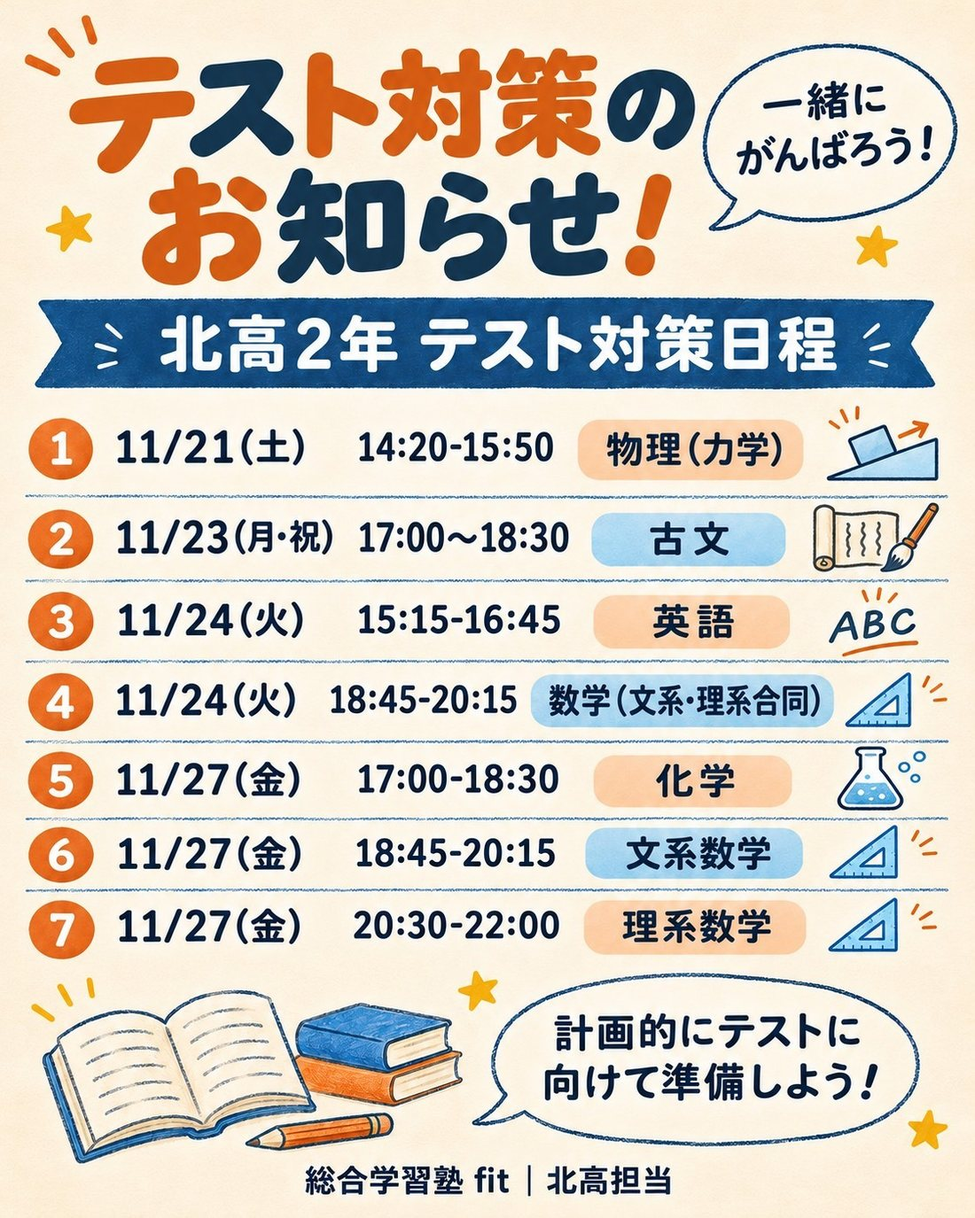
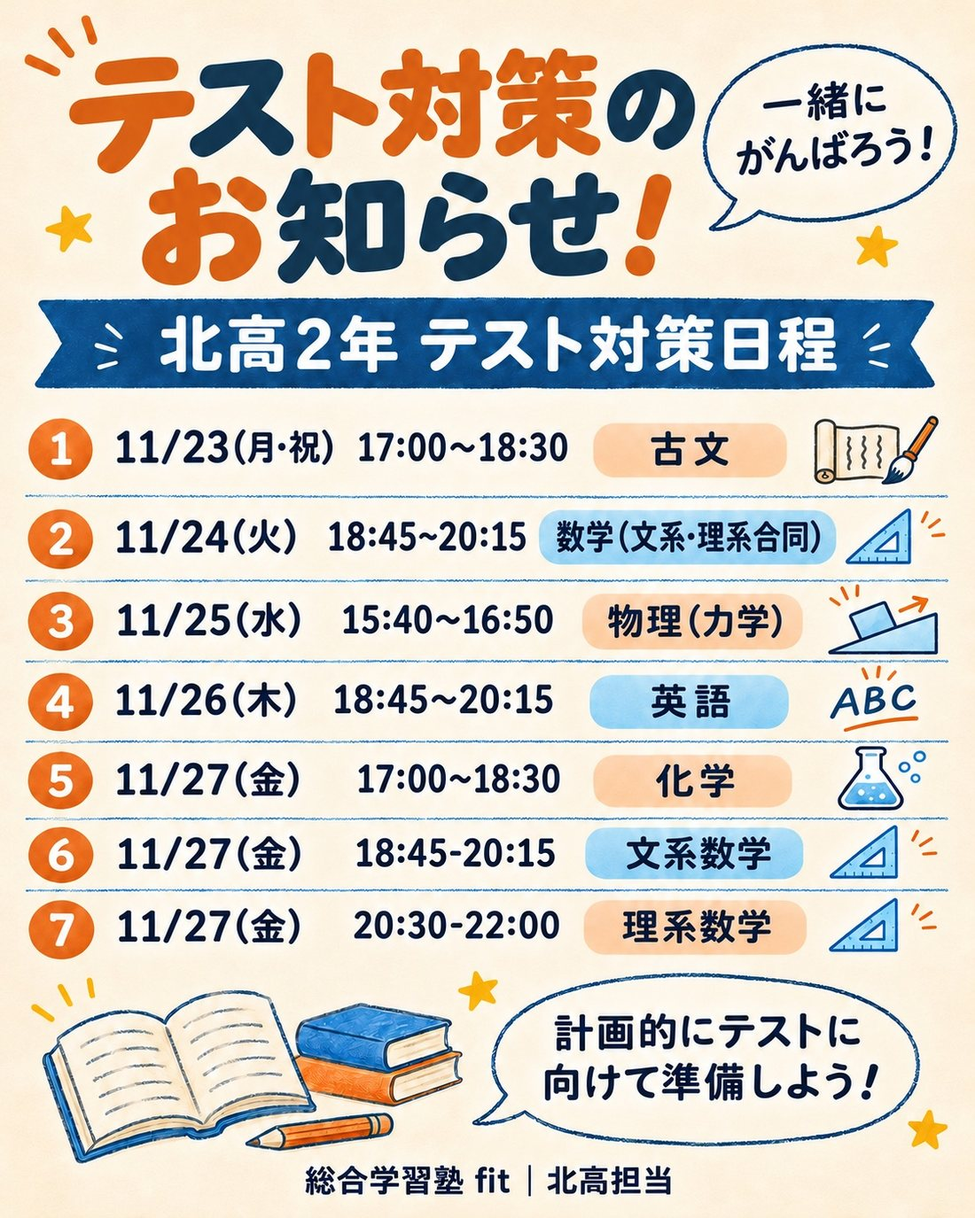
北2年のテスト対策日程を変更（物理 11/25 15:40〜16:50・英語 11/26 18:45〜20:15）：testtaisaku.html と teikitest.html の画像・文字の日程
Claude-Session: https://claude.ai/code/session_018owQgFQp8tbjP1aYZa9Tmk

diff --git a/testtaisaku.html b/testtaisaku.html
@@ -222,7 +222,7 @@ footer p{margin:0 0 6px}
 <p class="sub">学校を<wbr>選んで、<wbr>学年の<wbr>タブを<wbr>押してください。</p>
 <p class="pick-hint" id="pick-hint">▼ あなたの学校は？</p>
 <div class="pick" role="group" aria-label="学校"><button class="sch" type="button" data-s="higashi" aria-pressed="false"><b>東</b><small>松山東高校</small></button><button class="sch" type="button" data-s="minami" aria-pressed="false"><b>南</b><small>松山南高校</small></button><button class="sch" type="button" data-s="kita" aria-pressed="false"><b>北</b><small>松山北高校</small></button><button class="sch" type="button" data-s="chuo" aria-pressed="false"><b>中央</b><small>松山中央高校</small></button><button class="sch" type="button" data-s="nishi" aria-pressed="false"><b>西</b><small>松山西中等教育学校</small></button><button class="sch" type="button" data-s="fuzoku" aria-pressed="false"><b>附属</b><small>愛媛大学附属高校</small></button></div>
-<div class="notebook" id="sc-higashi" data-s="higashi" data-short="東" hidden><p class="school-name"><b>松山東高校</b><span>2学期 期末テスト対策</span></p><p class="snote">全授業90分</p><div class="tabs" role="tablist" aria-label="学年"><button class="tab" role="tab" id="t-higashi-1" aria-controls="p-higashi-1" aria-selected="true" data-grade="1">1年生</button><button class="tab" role="tab" id="t-higashi-2" aria-controls="p-higashi-2" aria-selected="false" data-grade="2">2年生</button></div><div class="panel" role="tabpanel" id="p-higashi-1" aria-labelledby="t-higashi-1"><img src="testtaisaku/higashi_1.jpg?v=20261121" alt="松山東高校 1年生 テスト対策日程。11/21(土) 18:00〜 英コミ、11/25(水) 12:15〜 数学①、11/26(木) 12:15〜 歴史総合、11/26(木) 15:15〜 古典、11/28(土) 16:10〜 論表、11/28(土) 18:00〜 数学②、11/30(月) 17:00〜 化学基礎" width="1100" height="1375" loading="lazy"><details class="txt"><summary>日程を文字で見る</summary><table><tr><th>日付</th><th>時間</th><th>科目</th></tr><tr data-end="2026-11-21T19:30:00+09:00"><td class="d">11/21<span>（土）</span></td><td class="tm">18:00〜</td><td class="sj">英コミ</td></tr><tr data-end="2026-11-25T13:45:00+09:00"><td class="d">11/25<span>（水）</span></td><td class="tm">12:15〜</td><td class="sj">数学①</td></tr><tr data-end="2026-11-26T13:45:00+09:00"><td class="d">11/26<span>（木）</span></td><td class="tm">12:15〜</td><td class="sj">歴史総合</td></tr><tr data-end="2026-11-26T16:45:00+09:00"><td class="d">11/26<span>（木）</span></td><td class="tm">15:15〜</td><td class="sj">古典</td></tr><tr data-end="2026-11-28T17:40:00+09:00"><td class="d">11/28<span>（土）</span></td><td class="tm">16:10〜</td><td class="sj">論表</td></tr><tr data-end="2026-11-28T19:30:00+09:00"><td class="d">11/28<span>（土）</span></td><td class="tm">18:00〜</td><td class="sj">数学②</td></tr><tr data-end="2026-11-30T18:30:00+09:00"><td class="d">11/30<span>（月）</span></td><td class="tm">17:00〜</td><td class="sj">化学基礎</td></tr></table><p class="done-note">灰色は、終わった日程です。</p></details></div><div class="panel" role="tabpanel" id="p-higashi-2" aria-labelledby="t-higashi-2" hidden><img src="testtaisaku/higashi_2.jpg?v=20261121" alt="松山東高校 2年生 テスト対策日程。11/23(月・祝) 18:45〜 化学、11/25(水) 14:00〜 文系数学①、11/25(水) 15:00〜 理系数学①、11/25(水) 20:30〜 世界史、11/27(金) 17:00〜 古典、11/27(金) 18:45〜 理系数学②、11/27(金) 20:30〜 文系数学②、11/28(土) 14:20〜 論表" width="1100" height="1375" loading="lazy"><details class="txt"><summary>日程を文字で見る</summary><table><tr><th>日付</th><th>時間</th><th>科目</th></tr><tr data-end="2026-11-23T20:15:00+09:00"><td class="d">11/23<span>（月・祝）</span></td><td class="tm">18:45〜</td><td class="sj">化学</td></tr><tr data-end="2026-11-25T15:30:00+09:00"><td class="d">11/25<span>（水）</span></td><td class="tm">14:00〜</td><td class="sj">文系数学①</td></tr><tr data-end="2026-11-25T16:30:00+09:00"><td class="d">11/25<span>（水）</span></td><td class="tm">15:00〜</td><td class="sj">理系数学①</td></tr><tr data-end="2026-11-25T22:00:00+09:00"><td class="d">11/25<span>（水）</span></td><td class="tm">20:30〜</td><td class="sj">世界史</td></tr><tr data-end="2026-11-27T18:30:00+09:00"><td class="d">11/27<span>（金）</span></td><td class="tm">17:00〜</td><td class="sj">古典</td></tr><tr data-end="2026-11-27T20:15:00+09:00"><td class="d">11/27<span>（金）</span></td><td class="tm">18:45〜</td><td class="sj">理系数学②</td></tr><tr data-end="2026-11-27T22:00:00+09:00"><td class="d">11/27<span>（金）</span></td><td class="tm">20:30〜</td><td class="sj">文系数学②</td></tr><tr data-end="2026-11-28T15:50:00+09:00"><td class="d">11/28<span>（土）</span></td><td class="tm">14:20〜</td><td class="sj">論表</td></tr></table><p class="done-note">灰色は、終わった日程です。</p></details></div><div class="under"><a class="btn main" href="https://liff.line.me/1654282071-yKj0v7k8/landing?follow=%40354wbuiz&amp;lp=cX2AwV&amp;liff_id=1654282071-yKj0v7k8">この日程で<wbr>参加予約する</a></div></div><div class="notebook" id="sc-minami" data-s="minami" data-short="南" hidden><p class="school-name"><b>松山南高校</b><span>2学期 期末テスト対策</span></p><p class="snote">教科書・ワークを持ってきてください</p><div class="tabs" role="tablist" aria-label="学年"><button class="tab" role="tab" id="t-minami-1" aria-controls="p-minami-1" aria-selected="true" data-grade="1">1年生</button><button class="tab" role="tab" id="t-minami-2" aria-controls="p-minami-2" aria-selected="false" data-grade="2">2年生</button></div><div class="panel" role="tabpanel" id="p-minami-1" aria-labelledby="t-minami-1"><img src="testtaisaku/minami_1.jpg?v=20261121" alt="松山南高校 1年生 テスト対策日程。11/22(日) 12:30〜14:00 歴史総合、11/23(月・祝) 18:45〜20:15 論理表現、11/25(水) 18:45〜20:15 数学、11/28(土) 16:10〜17:40 数学、11/29(日) 14:20〜15:50 化学基礎、11/29(日) 16:10〜17:40 古典" width="1100" height="733" loading="lazy"><details class="txt"><summary>日程を文字で見る</summary><table><tr><th>日付</th><th>時間</th><th>科目</th></tr><tr data-end="2026-11-22T14:00:00+09:00"><td class="d">11/22<span>（日）</span></td><td class="tm">12:30〜14:00</td><td class="sj">歴史総合</td></tr><tr data-end="2026-11-23T20:15:00+09:00"><td class="d">11/23<span>（月・祝）</span></td><td class="tm">18:45〜20:15</td><td class="sj">論理表現</td></tr><tr data-end="2026-11-25T20:15:00+09:00"><td class="d">11/25<span>（水）</span></td><td class="tm">18:45〜20:15</td><td class="sj">数学</td></tr><tr data-end="2026-11-28T17:40:00+09:00"><td class="d">11/28<span>（土）</span></td><td class="tm">16:10〜17:40</td><td class="sj">数学</td></tr><tr data-end="2026-11-29T15:50:00+09:00"><td class="d">11/29<span>（日）</span></td><td class="tm">14:20〜15:50</td><td class="sj">化学基礎</td></tr><tr data-end="2026-11-29T17:40:00+09:00"><td class="d">11/29<span>（日）</span></td><td class="tm">16:10〜17:40</td><td class="sj">古典</td></tr></table><p class="done-note">灰色は、終わった日程です。</p></details></div><div class="panel" role="tabpanel" id="p-minami-2" aria-labelledby="t-minami-2" hidden><img src="testtaisaku/minami_2.jpg?v=20261121" alt="松山南高校 2年生 テスト対策日程。11/23(月・祝) 17:00〜18:30 古典、11/23(月・祝) 18:45〜20:15 生物、11/24(火) 14:00〜15:30 数学、11/26(木) 14:00〜15:30 英コミ、11/27(金) 15:15〜16:45 数学、11/29(日) 16:10〜17:40 化学" width="1100" height="733" loading="lazy"><details class="txt"><summary>日程を文字で見る</summary><table><tr><th>日付</th><th>時間</th><th>科目</th></tr><tr data-end="2026-11-23T18:30:00+09:00"><td class="d">11/23<span>（月・祝）</span></td><td class="tm">17:00〜18:30</td><td class="sj">古典</td></tr><tr data-end="2026-11-23T20:15:00+09:00"><td class="d">11/23<span>（月・祝）</span></td><td class="tm">18:45〜20:15</td><td class="sj">生物</td></tr><tr data-end="2026-11-24T15:30:00+09:00"><td class="d">11/24<span>（火）</span></td><td class="tm">14:00〜15:30</td><td class="sj">数学</td></tr><tr data-end="2026-11-26T15:30:00+09:00"><td class="d">11/26<span>（木）</span></td><td class="tm">14:00〜15:30</td><td class="sj">英コミ</td></tr><tr data-end="2026-11-27T16:45:00+09:00"><td class="d">11/27<span>（金）</span></td><td class="tm">15:15〜16:45</td><td class="sj">数学</td></tr><tr data-end="2026-11-29T17:40:00+09:00"><td class="d">11/29<span>（日）</span></td><td class="tm">16:10〜17:40</td><td class="sj">化学</td></tr></table><p class="done-note">灰色は、終わった日程です。</p></details></div><div class="under"><a class="btn main" href="https://liff.line.me/1654282071-yKj0v7k8/landing?follow=%40354wbuiz&amp;lp=cX2AwV&amp;liff_id=1654282071-yKj0v7k8">この日程で<wbr>参加予約する</a></div></div><div class="notebook" id="sc-kita" data-s="kita" data-short="北" hidden><p class="school-name"><b>松山北高校</b><span>2学期 期末テスト対策</span></p><div class="tabs" role="tablist" aria-label="学年"><button class="tab" role="tab" id="t-kita-1" aria-controls="p-kita-1" aria-selected="true" data-grade="1">1年生</button><button class="tab" role="tab" id="t-kita-2" aria-controls="p-kita-2" aria-selected="false" data-grade="2">2年生</button></div><div class="panel" role="tabpanel" id="p-kita-1" aria-labelledby="t-kita-1"><img src="testtaisaku/kita_1.jpg?v=20261121" alt="松山北高校 1年生 テスト対策日程。11/20(金) 18:45〜 論理表現、11/23(月・祝) 17:00〜18:30 数学、11/24(火) 17:00〜 言語文化、11/25(水) 17:00〜18:30 化学基礎、11/26(木) 15:20〜16:50 数学、11/26(木) 17:00〜 英語コミュニケーション" width="1100" height="1375" loading="lazy"><details class="txt"><summary>日程を文字で見る</summary><table><tr><th>日付</th><th>時間</th><th>科目</th></tr><tr data-end="2026-11-20T20:15:00+09:00"><td class="d">11/20<span>（金）</span></td><td class="tm">18:45〜</td><td class="sj">論理表現</td></tr><tr data-end="2026-11-23T18:30:00+09:00"><td class="d">11/23<span>（月・祝）</span></td><td class="tm">17:00〜18:30</td><td class="sj">数学</td></tr><tr data-end="2026-11-24T18:30:00+09:00"><td class="d">11/24<span>（火）</span></td><td class="tm">17:00〜</td><td class="sj">言語文化</td></tr><tr data-end="2026-11-25T18:30:00+09:00"><td class="d">11/25<span>（水）</span></td><td class="tm">17:00〜18:30</td><td class="sj">化学基礎</td></tr><tr data-end="2026-11-26T16:50:00+09:00"><td class="d">11/26<span>（木）</span></td><td class="tm">15:20〜16:50</td><td class="sj">数学</td></tr><tr data-end="2026-11-26T18:30:00+09:00"><td class="d">11/26<span>（木）</span></td><td class="tm">17:00〜</td><td class="sj">英語コミュニケーション</td></tr></table><p class="done-note">灰色は、終わった日程です。</p></details></div><div class="panel" role="tabpanel" id="p-kita-2" aria-labelledby="t-kita-2" hidden><img src="testtaisaku/kita_2.jpg?v=20261121" alt="松山北高校 2年生 テスト対策日程。11/21(土) 14:20〜15:50 物理（力学）、11/23(月・祝) 17:00〜18:30 古文、11/24(火) 15:15〜16:45 英語、11/24(火) 18:45〜20:15 数学（文系・理系合同）、11/27(金) 17:00〜18:30 化学、11/27(金) 18:45〜20:15 文系数学、11/27(金) 20:30〜22:00 理系数学" width="1100" height="1375" loading="lazy"><details class="txt"><summary>日程を文字で見る</summary><table><tr><th>日付</th><th>時間</th><th>科目</th></tr><tr data-end="2026-11-21T15:50:00+09:00"><td class="d">11/21<span>（土）</span></td><td class="tm">14:20〜15:50</td><td class="sj">物理（力学）</td></tr><tr data-end="2026-11-23T18:30:00+09:00"><td class="d">11/23<span>（月・祝）</span></td><td class="tm">17:00〜18:30</td><td class="sj">古文</td></tr><tr data-end="2026-11-24T16:45:00+09:00"><td class="d">11/24<span>（火）</span></td><td class="tm">15:15〜16:45</td><td class="sj">英語</td></tr><tr data-end="2026-11-24T20:15:00+09:00"><td class="d">11/24<span>（火）</span></td><td class="tm">18:45〜20:15</td><td class="sj">数学（文系・理系合同）</td></tr><tr data-end="2026-11-27T18:30:00+09:00"><td class="d">11/27<span>（金）</span></td><td class="tm">17:00〜18:30</td><td class="sj">化学</td></tr><tr data-end="2026-11-27T20:15:00+09:00"><td class="d">11/27<span>（金）</span></td><td class="tm">18:45〜20:15</td><td class="sj">文系数学</td></tr><tr data-end="2026-11-27T22:00:00+09:00"><td class="d">11/27<span>（金）</span></td><td class="tm">20:30〜22:00</td><td class="sj">理系数学</td></tr></table><p class="done-note">灰色は、終わった日程です。</p></details></div><div class="under"><a class="btn main" href="https://liff.line.me/1654282071-yKj0v7k8/landing?follow=%40354wbuiz&amp;lp=cX2AwV&amp;liff_id=1654282071-yKj0v7k8">この日程で<wbr>参加予約する</a></div></div><div class="notebook" id="sc-chuo" data-s="chuo" data-short="中央" hidden><p class="school-name"><b>松山中央高校</b><span>2学期 期末テスト対策</span></p><p class="snote">2年生は、希望があればテスト対策の追加もあります</p><div class="tabs" role="tablist" aria-label="学年"><button class="tab" role="tab" id="t-chuo-1" aria-controls="p-chuo-1" aria-selected="true" data-grade="1">1年生</button><button class="tab" role="tab" id="t-chuo-2" aria-controls="p-chuo-2" aria-selected="false" data-grade="2">2年生</button></div><div class="panel" role="tabpanel" id="p-chuo-1" aria-labelledby="t-chuo-1"><img src="testtaisaku/chuo_1.jpg?v=20261121" alt="松山中央高校 1年生 テスト対策日程。11/24(火) 17:00〜18:30 数A 石井校、11/25(水) 13:30〜15:00 論表 石井校、11/26(木) 13:30〜15:00 英コミ 石井校、11/28(土) 12:30〜14:00 数Ⅰ 大街道、11/30(月) 16:30〜18:00 化学基礎 石井校" width="1100" height="733" loading="lazy"><details class="txt"><summary>日程を文字で見る</summary><table><tr><th>日付</th><th>時間</th><th>科目</th><th>教室</th></tr><tr data-end="2026-11-24T18:30:00+09:00"><td class="d">11/24<span>（火）</span></td><td class="tm">17:00〜18:30</td><td class="sj">数A</td><td class="pl">石井校</td></tr><tr data-end="2026-11-25T15:00:00+09:00"><td class="d">11/25<span>（水）</span></td><td class="tm">13:30〜15:00</td><td class="sj">論表</td><td class="pl">石井校</td></tr><tr data-end="2026-11-26T15:00:00+09:00"><td class="d">11/26<span>（木）</span></td><td class="tm">13:30〜15:00</td><td class="sj">英コミ</td><td class="pl">石井校</td></tr><tr data-end="2026-11-28T14:00:00+09:00"><td class="d">11/28<span>（土）</span></td><td class="tm">12:30〜14:00</td><td class="sj">数Ⅰ</td><td class="pl">大街道</td></tr><tr data-end="2026-11-30T18:00:00+09:00"><td class="d">11/30<span>（月）</span></td><td class="tm">16:30〜18:00</td><td class="sj">化学基礎</td><td class="pl">石井校</td></tr></table><p class="done-note">灰色は、終わった日程です。</p></details></div><div class="panel" role="tabpanel" id="p-chuo-2" aria-labelledby="t-chuo-2" hidden><img src="testtaisaku/chuo_2.jpg?v=20261121" alt="松山中央高校 2年生 テスト対策日程。11/23(月・祝) 15:15〜16:45 数学B 大街道、11/28(土) 12:30〜14:00 数学Ⅱ 大街道、11/28(土) 14:20〜15:50 化学 大街道、11/30(月) 15:00〜16:30 論理表現 石井校" width="1100" height="733" loading="lazy"><details class="txt"><summary>日程を文字で見る</summary><table><tr><th>日付</th><th>時間</th><th>科目</th><th>教室</th></tr><tr data-end="2026-11-23T16:45:00+09:00"><td class="d">11/23<span>（月・祝）</span></td><td class="tm">15:15〜16:45</td><td class="sj">数学B</td><td class="pl">大街道</td></tr><tr data-end="2026-11-28T14:00:00+09:00"><td class="d">11/28<span>（土）</span></td><td class="tm">12:30〜14:00</td><td class="sj">数学Ⅱ</td><td class="pl">大街道</td></tr><tr data-end="2026-11-28T15:50:00+09:00"><td class="d">11/28<span>（土）</span></td><td class="tm">14:20〜15:50</td><td class="sj">化学</td><td class="pl">大街道</td></tr><tr data-end="2026-11-30T16:30:00+09:00"><td class="d">11/30<span>（月）</span></td><td class="tm">15:00〜16:30</td><td class="sj">論理表現</td><td class="pl">石井校</td></tr></table><p class="done-note">灰色は、終わった日程です。</p></details></div><div class="under"><a class="btn main" href="https://liff.line.me/1654282071-yKj0v7k8/landing?follow=%40354wbuiz&amp;lp=cX2AwV&amp;liff_id=1654282071-yKj0v7k8">この日程で<wbr>参加予約する</a></div></div><div class="notebook" id="sc-nishi" data-s="nishi" data-short="西" hidden><p class="school-name"><b>松山西中等教育学校</b><span>2学期 期末テスト対策</span></p><div class="tabs" role="tablist" aria-label="学年"><button class="tab" role="tab" id="t-nishi-4" aria-controls="p-nishi-4" aria-selected="true" data-grade="4">4年生</button><button class="tab" role="tab" id="t-nishi-5" aria-controls="p-nishi-5" aria-selected="false" data-grade="5">5年生</button></div><div class="panel" role="tabpanel" id="p-nishi-4" aria-labelledby="t-nishi-4"><img src="testtaisaku/nishi_4.jpg?v=20261121" alt="松山西中等教育学校 4年生 テスト対策日程。11/22(日) 12:30〜14:00 数学Ⅱα、11/24(火) 17:00〜18:30 英コミ、11/26(木) 14:00〜15:30 論表、11/28(土) 14:20〜15:50 数学Ⅱβ、11/29(日) 12:30〜14:00 化学基礎、11/30(月) 17:00〜18:30 言語文化" width="1100" height="1204" loading="lazy"><details class="txt"><summary>日程を文字で見る</summary><table><tr><th>日付</th><th>時間</th><th>科目</th></tr><tr data-end="2026-11-22T14:00:00+09:00"><td class="d">11/22<span>（日）</span></td><td class="tm">12:30〜14:00</td><td class="sj">数学Ⅱα</td></tr><tr data-end="2026-11-24T18:30:00+09:00"><td class="d">11/24<span>（火）</span></td><td class="tm">17:00〜18:30</td><td class="sj">英コミ</td></tr><tr data-end="2026-11-26T15:30:00+09:00"><td class="d">11/26<span>（木）</span></td><td class="tm">14:00〜15:30</td><td class="sj">論表</td></tr><tr data-end="2026-11-28T15:50:00+09:00"><td class="d">11/28<span>（土）</span></td><td class="tm">14:20〜15:50</td><td class="sj">数学Ⅱβ</td></tr><tr data-end="2026-11-29T14:00:00+09:00"><td class="d">11/29<span>（日）</span></td><td class="tm">12:30〜14:00</td><td class="sj">化学基礎</td></tr><tr data-end="2026-11-30T18:30:00+09:00"><td class="d">11/30<span>（月）</span></td><td class="tm">17:00〜18:30</td><td class="sj">言語文化</td></tr></table><p class="done-note">灰色は、終わった日程です。</p></details></div><div class="panel" role="tabpanel" id="p-nishi-5" aria-labelledby="t-nishi-5" hidden><img src="testtaisaku/nishi_5.jpg?v=20261121" alt="松山西中等教育学校 5年生 テスト対策日程。11/22(日) 16:10〜17:40 数学Ⅱ、11/26(木) 15:15〜16:45 数学B、11/30(月) 18:45〜20:15 論表" width="1100" height="1204" loading="lazy"><details class="txt"><summary>日程を文字で見る</summary><table><tr><th>日付</th><th>時間</th><th>科目</th></tr><tr data-end="2026-11-22T17:40:00+09:00"><td class="d">11/22<span>（日）</span></td><td class="tm">16:10〜17:40</td><td class="sj">数学Ⅱ</td></tr><tr data-end="2026-11-26T16:45:00+09:00"><td class="d">11/26<span>（木）</span></td><td class="tm">15:15〜16:45</td><td class="sj">数学B</td></tr><tr data-end="2026-11-30T20:15:00+09:00"><td class="d">11/30<span>（月）</span></td><td class="tm">18:45〜20:15</td><td class="sj">論表</td></tr></table><p class="done-note">灰色は、終わった日程です。</p></details></div><div class="under"><a class="btn main" href="https://liff.line.me/1654282071-yKj0v7k8/landing?follow=%40354wbuiz&amp;lp=cX2AwV&amp;liff_id=1654282071-yKj0v7k8">この日程で<wbr>参加予約する</a></div></div><div class="notebook" id="sc-fuzoku" data-s="fuzoku" data-short="附属" hidden><p class="school-name"><b>愛媛大学附属高校</b><span>2学期 期末テスト対策</span></p><div class="tabs" role="tablist" aria-label="学年"><button class="tab" role="tab" id="t-fuzoku-1" aria-controls="p-fuzoku-1" aria-selected="true" data-grade="1">1年生</button><button class="tab" role="tab" id="t-fuzoku-2" aria-controls="p-fuzoku-2" aria-selected="false" data-grade="2">2年生</button></div><div class="panel" role="tabpanel" id="p-fuzoku-1" aria-labelledby="t-fuzoku-1"><img src="testtaisaku/fuzoku_1.jpg?v=20261121" alt="愛媛大学附属高校 1年生 テスト対策日程。11/23(月・祝) 18:45〜20:15 言語文化、11/25(水) 20:30〜22:00 数学Ⅰ、11/26(木) 17:00〜18:30 論理・表現、11/27(金) 14:00〜15:30 化学基礎、11/30(月) 14:00〜15:30 英コミ、11/30(月) 18:45〜20:15 数学A" width="1100" height="1375" loading="lazy"><details class="txt"><summary>日程を文字で見る</summary><table><tr><th>日付</th><th>時間</th><th>科目</th></tr><tr data-end="2026-11-23T20:15:00+09:00"><td class="d">11/23<span>（月・祝）</span></td><td class="tm">18:45〜20:15</td><td class="sj">言語文化</td></tr><tr data-end="2026-11-25T22:00:00+09:00"><td class="d">11/25<span>（水）</span></td><td class="tm">20:30〜22:00</td><td class="sj">数学Ⅰ</td></tr><tr data-end="2026-11-26T18:30:00+09:00"><td class="d">11/26<span>（木）</span></td><td class="tm">17:00〜18:30</td><td class="sj">論理・表現</td></tr><tr data-end="2026-11-27T15:30:00+09:00"><td class="d">11/27<span>（金）</span></td><td class="tm">14:00〜15:30</td><td class="sj">化学基礎</td></tr><tr data-end="2026-11-30T15:30:00+09:00"><td class="d">11/30<span>（月）</span></td><td class="tm">14:00〜15:30</td><td class="sj">英コミ</td></tr><tr data-end="2026-11-30T20:15:00+09:00"><td class="d">11/30<span>（月）</span></td><td class="tm">18:45〜20:15</td><td class="sj">数学A</td></tr></table><p class="done-note">灰色は、終わった日程です。</p></details></div><div class="panel" role="tabpanel" id="p-fuzoku-2" aria-labelledby="t-fuzoku-2" hidden><img src="testtaisaku/fuzoku_2.jpg?v=20261121" alt="愛媛大学附属高校 2年生 テスト対策日程。11/24(火) 18:45〜20:15 古典、11/24(火) 20:30〜22:00 数B、11/25(水) 12:15〜13:45 歴史総合、11/25(水) 14:00〜15:30 化学、11/28(土) 16:10〜17:40 数Ⅱ、11/28(土) 18:00〜19:30 英コミ" width="1100" height="1375" loading="lazy"><details class="txt"><summary>日程を文字で見る</summary><table><tr><th>日付</th><th>時間</th><th>科目</th></tr><tr data-end="2026-11-24T20:15:00+09:00"><td class="d">11/24<span>（火）</span></td><td class="tm">18:45〜20:15</td><td class="sj">古典</td></tr><tr data-end="2026-11-24T22:00:00+09:00"><td class="d">11/24<span>（火）</span></td><td class="tm">20:30〜22:00</td><td class="sj">数B</td></tr><tr data-end="2026-11-25T13:45:00+09:00"><td class="d">11/25<span>（水）</span></td><td class="tm">12:15〜13:45</td><td class="sj">歴史総合</td></tr><tr data-end="2026-11-25T15:30:00+09:00"><td class="d">11/25<span>（水）</span></td><td class="tm">14:00〜15:30</td><td class="sj">化学</td></tr><tr data-end="2026-11-28T17:40:00+09:00"><td class="d">11/28<span>（土）</span></td><td class="tm">16:10〜17:40</td><td class="sj">数Ⅱ</td></tr><tr data-end="2026-11-28T19:30:00+09:00"><td class="d">11/28<span>（土）</span></td><td class="tm">18:00〜19:30</td><td class="sj">英コミ</td></tr></table><p class="done-note">灰色は、終わった日程です。</p></details></div><div class="under"><a class="btn main" href="https://liff.line.me/1654282071-yKj0v7k8/landing?follow=%40354wbuiz&amp;lp=cX2AwV&amp;liff_id=1654282071-yKj0v7k8">この日程で<wbr>参加予約する</a></div></div>
+<div class="notebook" id="sc-higashi" data-s="higashi" data-short="東" hidden><p class="school-name"><b>松山東高校</b><span>2学期 期末テスト対策</span></p><p class="snote">全授業90分</p><div class="tabs" role="tablist" aria-label="学年"><button class="tab" role="tab" id="t-higashi-1" aria-controls="p-higashi-1" aria-selected="true" data-grade="1">1年生</button><button class="tab" role="tab" id="t-higashi-2" aria-controls="p-higashi-2" aria-selected="false" data-grade="2">2年生</button></div><div class="panel" role="tabpanel" id="p-higashi-1" aria-labelledby="t-higashi-1"><img src="testtaisaku/higashi_1.jpg?v=20261123" alt="松山東高校 1年生 テスト対策日程。11/21(土) 18:00〜 英コミ、11/25(水) 12:15〜 数学①、11/26(木) 12:15〜 歴史総合、11/26(木) 15:15〜 古典、11/28(土) 16:10〜 論表、11/28(土) 18:00〜 数学②、11/30(月) 17:00〜 化学基礎" width="1100" height="1375" loading="lazy"><details class="txt"><summary>日程を文字で見る</summary><table><tr><th>日付</th><th>時間</th><th>科目</th></tr><tr data-end="2026-11-21T19:30:00+09:00"><td class="d">11/21<span>（土）</span></td><td class="tm">18:00〜</td><td class="sj">英コミ</td></tr><tr data-end="2026-11-25T13:45:00+09:00"><td class="d">11/25<span>（水）</span></td><td class="tm">12:15〜</td><td class="sj">数学①</td></tr><tr data-end="2026-11-26T13:45:00+09:00"><td class="d">11/26<span>（木）</span></td><td class="tm">12:15〜</td><td class="sj">歴史総合</td></tr><tr data-end="2026-11-26T16:45:00+09:00"><td class="d">11/26<span>（木）</span></td><td class="tm">15:15〜</td><td class="sj">古典</td></tr><tr data-end="2026-11-28T17:40:00+09:00"><td class="d">11/28<span>（土）</span></td><td class="tm">16:10〜</td><td class="sj">論表</td></tr><tr data-end="2026-11-28T19:30:00+09:00"><td class="d">11/28<span>（土）</span></td><td class="tm">18:00〜</td><td class="sj">数学②</td></tr><tr data-end="2026-11-30T18:30:00+09:00"><td class="d">11/30<span>（月）</span></td><td class="tm">17:00〜</td><td class="sj">化学基礎</td></tr></table><p class="done-note">灰色は、終わった日程です。</p></details></div><div class="panel" role="tabpanel" id="p-higashi-2" aria-labelledby="t-higashi-2" hidden><img src="testtaisaku/higashi_2.jpg?v=20261123" alt="松山東高校 2年生 テスト対策日程。11/23(月・祝) 18:45〜 化学、11/25(水) 14:00〜 文系数学①、11/25(水) 15:00〜 理系数学①、11/25(水) 20:30〜 世界史、11/27(金) 17:00〜 古典、11/27(金) 18:45〜 理系数学②、11/27(金) 20:30〜 文系数学②、11/28(土) 14:20〜 論表" width="1100" height="1375" loading="lazy"><details class="txt"><summary>日程を文字で見る</summary><table><tr><th>日付</th><th>時間</th><th>科目</th></tr><tr data-end="2026-11-23T20:15:00+09:00"><td class="d">11/23<span>（月・祝）</span></td><td class="tm">18:45〜</td><td class="sj">化学</td></tr><tr data-end="2026-11-25T15:30:00+09:00"><td class="d">11/25<span>（水）</span></td><td class="tm">14:00〜</td><td class="sj">文系数学①</td></tr><tr data-end="2026-11-25T16:30:00+09:00"><td class="d">11/25<span>（水）</span></td><td class="tm">15:00〜</td><td class="sj">理系数学①</td></tr><tr data-end="2026-11-25T22:00:00+09:00"><td class="d">11/25<span>（水）</span></td><td class="tm">20:30〜</td><td class="sj">世界史</td></tr><tr data-end="2026-11-27T18:30:00+09:00"><td class="d">11/27<span>（金）</span></td><td class="tm">17:00〜</td><td class="sj">古典</td></tr><tr data-end="2026-11-27T20:15:00+09:00"><td class="d">11/27<span>（金）</span></td><td class="tm">18:45〜</td><td class="sj">理系数学②</td></tr><tr data-end="2026-11-27T22:00:00+09:00"><td class="d">11/27<span>（金）</span></td><td class="tm">20:30〜</td><td class="sj">文系数学②</td></tr><tr data-end="2026-11-28T15:50:00+09:00"><td class="d">11/28<span>（土）</span></td><td class="tm">14:20〜</td><td class="sj">論表</td></tr></table><p class="done-note">灰色は、終わった日程です。</p></details></div><div class="under"><a class="btn main" href="https://liff.line.me/1654282071-yKj0v7k8/landing?follow=%40354wbuiz&amp;lp=cX2AwV&amp;liff_id=1654282071-yKj0v7k8">この日程で<wbr>参加予約する</a></div></div><div class="notebook" id="sc-minami" data-s="minami" data-short="南" hidden><p class="school-name"><b>松山南高校</b><span>2学期 期末テスト対策</span></p><p class="snote">教科書・ワークを持ってきてください</p><div class="tabs" role="tablist" aria-label="学年"><button class="tab" role="tab" id="t-minami-1" aria-controls="p-minami-1" aria-selected="true" data-grade="1">1年生</button><button class="tab" role="tab" id="t-minami-2" aria-controls="p-minami-2" aria-selected="false" data-grade="2">2年生</button></div><div class="panel" role="tabpanel" id="p-minami-1" aria-labelledby="t-minami-1"><img src="testtaisaku/minami_1.jpg?v=20261123" alt="松山南高校 1年生 テスト対策日程。11/22(日) 12:30〜14:00 歴史総合、11/23(月・祝) 18:45〜20:15 論理表現、11/25(水) 18:45〜20:15 数学、11/28(土) 16:10〜17:40 数学、11/29(日) 14:20〜15:50 化学基礎、11/29(日) 16:10〜17:40 古典" width="1100" height="733" loading="lazy"><details class="txt"><summary>日程を文字で見る</summary><table><tr><th>日付</th><th>時間</th><th>科目</th></tr><tr data-end="2026-11-22T14:00:00+09:00"><td class="d">11/22<span>（日）</span></td><td class="tm">12:30〜14:00</td><td class="sj">歴史総合</td></tr><tr data-end="2026-11-23T20:15:00+09:00"><td class="d">11/23<span>（月・祝）</span></td><td class="tm">18:45〜20:15</td><td class="sj">論理表現</td></tr><tr data-end="2026-11-25T20:15:00+09:00"><td class="d">11/25<span>（水）</span></td><td class="tm">18:45〜20:15</td><td class="sj">数学</td></tr><tr data-end="2026-11-28T17:40:00+09:00"><td class="d">11/28<span>（土）</span></td><td class="tm">16:10〜17:40</td><td class="sj">数学</td></tr><tr data-end="2026-11-29T15:50:00+09:00"><td class="d">11/29<span>（日）</span></td><td class="tm">14:20〜15:50</td><td class="sj">化学基礎</td></tr><tr data-end="2026-11-29T17:40:00+09:00"><td class="d">11/29<span>（日）</span></td><td class="tm">16:10〜17:40</td><td class="sj">古典</td></tr></table><p class="done-note">灰色は、終わった日程です。</p></details></div><div class="panel" role="tabpanel" id="p-minami-2" aria-labelledby="t-minami-2" hidden><img src="testtaisaku/minami_2.jpg?v=20261123" alt="松山南高校 2年生 テスト対策日程。11/23(月・祝) 17:00〜18:30 古典、11/23(月・祝) 18:45〜20:15 生物、11/24(火) 14:00〜15:30 数学、11/26(木) 14:00〜15:30 英コミ、11/27(金) 15:15〜16:45 数学、11/29(日) 16:10〜17:40 化学" width="1100" height="733" loading="lazy"><details class="txt"><summary>日程を文字で見る</summary><table><tr><th>日付</th><th>時間</th><th>科目</th></tr><tr data-end="2026-11-23T18:30:00+09:00"><td class="d">11/23<span>（月・祝）</span></td><td class="tm">17:00〜18:30</td><td class="sj">古典</td></tr><tr data-end="2026-11-23T20:15:00+09:00"><td class="d">11/23<span>（月・祝）</span></td><td class="tm">18:45〜20:15</td><td class="sj">生物</td></tr><tr data-end="2026-11-24T15:30:00+09:00"><td class="d">11/24<span>（火）</span></td><td class="tm">14:00〜15:30</td><td class="sj">数学</td></tr><tr data-end="2026-11-26T15:30:00+09:00"><td class="d">11/26<span>（木）</span></td><td class="tm">14:00〜15:30</td><td class="sj">英コミ</td></tr><tr data-end="2026-11-27T16:45:00+09:00"><td class="d">11/27<span>（金）</span></td><td class="tm">15:15〜16:45</td><td class="sj">数学</td></tr><tr data-end="2026-11-29T17:40:00+09:00"><td class="d">11/29<span>（日）</span></td><td class="tm">16:10〜17:40</td><td class="sj">化学</td></tr></table><p class="done-note">灰色は、終わった日程です。</p></details></div><div class="under"><a class="btn main" href="https://liff.line.me/1654282071-yKj0v7k8/landing?follow=%40354wbuiz&amp;lp=cX2AwV&amp;liff_id=1654282071-yKj0v7k8">この日程で<wbr>参加予約する</a></div></div><div class="notebook" id="sc-kita" data-s="kita" data-short="北" hidden><p class="school-name"><b>松山北高校</b><span>2学期 期末テスト対策</span></p><div class="tabs" role="tablist" aria-label="学年"><button class="tab" role="tab" id="t-kita-1" aria-controls="p-kita-1" aria-selected="true" data-grade="1">1年生</button><button class="tab" role="tab" id="t-kita-2" aria-controls="p-kita-2" aria-selected="false" data-grade="2">2年生</button></div><div class="panel" role="tabpanel" id="p-kita-1" aria-labelledby="t-kita-1"><img src="testtaisaku/kita_1.jpg?v=20261123" alt="松山北高校 1年生 テスト対策日程。11/20(金) 18:45〜 論理表現、11/23(月・祝) 17:00〜18:30 数学、11/24(火) 17:00〜 言語文化、11/25(水) 17:00〜18:30 化学基礎、11/26(木) 15:20〜16:50 数学、11/26(木) 17:00〜 英語コミュニケーション" width="1100" height="1375" loading="lazy"><details class="txt"><summary>日程を文字で見る</summary><table><tr><th>日付</th><th>時間</th><th>科目</th></tr><tr data-end="2026-11-20T20:15:00+09:00"><td class="d">11/20<span>（金）</span></td><td class="tm">18:45〜</td><td class="sj">論理表現</td></tr><tr data-end="2026-11-23T18:30:00+09:00"><td class="d">11/23<span>（月・祝）</span></td><td class="tm">17:00〜18:30</td><td class="sj">数学</td></tr><tr data-end="2026-11-24T18:30:00+09:00"><td class="d">11/24<span>（火）</span></td><td class="tm">17:00〜</td><td class="sj">言語文化</td></tr><tr data-end="2026-11-25T18:30:00+09:00"><td class="d">11/25<span>（水）</span></td><td class="tm">17:00〜18:30</td><td class="sj">化学基礎</td></tr><tr data-end="2026-11-26T16:50:00+09:00"><td class="d">11/26<span>（木）</span></td><td class="tm">15:20〜16:50</td><td class="sj">数学</td></tr><tr data-end="2026-11-26T18:30:00+09:00"><td class="d">11/26<span>（木）</span></td><td class="tm">17:00〜</td><td class="sj">英語コミュニケーション</td></tr></table><p class="done-note">灰色は、終わった日程です。</p></details></div><div class="panel" role="tabpanel" id="p-kita-2" aria-labelledby="t-kita-2" hidden><img src="testtaisaku/kita_2.jpg?v=20261123" alt="松山北高校 2年生 テスト対策日程。11/23(月・祝) 17:00〜18:30 古文、11/24(火) 18:45〜20:15 数学（文系・理系合同）、11/25(水) 15:40〜16:50 物理（力学）、11/26(木) 18:45〜20:15 英語、11/27(金) 17:00〜18:30 化学、11/27(金) 18:45〜20:15 文系数学、11/27(金) 20:30〜22:00 理系数学" width="1100" height="1375" loading="lazy"><details class="txt"><summary>日程を文字で見る</summary><table><tr><th>日付</th><th>時間</th><th>科目</th></tr><tr data-end="2026-11-23T18:30:00+09:00"><td class="d">11/23<span>（月・祝）</span></td><td class="tm">17:00〜18:30</td><td class="sj">古文</td></tr><tr data-end="2026-11-24T20:15:00+09:00"><td class="d">11/24<span>（火）</span></td><td class="tm">18:45〜20:15</td><td class="sj">数学（文系・理系合同）</td></tr><tr data-end="2026-11-25T16:50:00+09:00"><td class="d">11/25<span>（水）</span></td><td class="tm">15:40〜16:50</td><td class="sj">物理（力学）</td></tr><tr data-end="2026-11-26T20:15:00+09:00"><td class="d">11/26<span>（木）</span></td><td class="tm">18:45〜20:15</td><td class="sj">英語</td></tr><tr data-end="2026-11-27T18:30:00+09:00"><td class="d">11/27<span>（金）</span></td><td class="tm">17:00〜18:30</td><td class="sj">化学</td></tr><tr data-end="2026-11-27T20:15:00+09:00"><td class="d">11/27<span>（金）</span></td><td class="tm">18:45〜20:15</td><td class="sj">文系数学</td></tr><tr data-end="2026-11-27T22:00:00+09:00"><td class="d">11/27<span>（金）</span></td><td class="tm">20:30〜22:00</td><td class="sj">理系数学</td></tr></table><p class="done-note">灰色は、終わった日程です。</p></details></div><div class="under"><a class="btn main" href="https://liff.line.me/1654282071-yKj0v7k8/landing?follow=%40354wbuiz&amp;lp=cX2AwV&amp;liff_id=1654282071-yKj0v7k8">この日程で<wbr>参加予約する</a></div></div><div class="notebook" id="sc-chuo" data-s="chuo" data-short="中央" hidden><p class="school-name"><b>松山中央高校</b><span>2学期 期末テスト対策</span></p><p class="snote">2年生は、希望があればテスト対策の追加もあります</p><div class="tabs" role="tablist" aria-label="学年"><button class="tab" role="tab" id="t-chuo-1" aria-controls="p-chuo-1" aria-selected="true" data-grade="1">1年生</button><button class="tab" role="tab" id="t-chuo-2" aria-controls="p-chuo-2" aria-selected="false" data-grade="2">2年生</button></div><div class="panel" role="tabpanel" id="p-chuo-1" aria-labelledby="t-chuo-1"><img src="testtaisaku/chuo_1.jpg?v=20261123" alt="松山中央高校 1年生 テスト対策日程。11/24(火) 17:00〜18:30 数A 石井校、11/25(水) 13:30〜15:00 論表 石井校、11/26(木) 13:30〜15:00 英コミ 石井校、11/28(土) 12:30〜14:00 数Ⅰ 大街道、11/30(月) 16:30〜18:00 化学基礎 石井校" width="1100" height="733" loading="lazy"><details class="txt"><summary>日程を文字で見る</summary><table><tr><th>日付</th><th>時間</th><th>科目</th><th>教室</th></tr><tr data-end="2026-11-24T18:30:00+09:00"><td class="d">11/24<span>（火）</span></td><td class="tm">17:00〜18:30</td><td class="sj">数A</td><td class="pl">石井校</td></tr><tr data-end="2026-11-25T15:00:00+09:00"><td class="d">11/25<span>（水）</span></td><td class="tm">13:30〜15:00</td><td class="sj">論表</td><td class="pl">石井校</td></tr><tr data-end="2026-11-26T15:00:00+09:00"><td class="d">11/26<span>（木）</span></td><td class="tm">13:30〜15:00</td><td class="sj">英コミ</td><td class="pl">石井校</td></tr><tr data-end="2026-11-28T14:00:00+09:00"><td class="d">11/28<span>（土）</span></td><td class="tm">12:30〜14:00</td><td class="sj">数Ⅰ</td><td class="pl">大街道</td></tr><tr data-end="2026-11-30T18:00:00+09:00"><td class="d">11/30<span>（月）</span></td><td class="tm">16:30〜18:00</td><td class="sj">化学基礎</td><td class="pl">石井校</td></tr></table><p class="done-note">灰色は、終わった日程です。</p></details></div><div class="panel" role="tabpanel" id="p-chuo-2" aria-labelledby="t-chuo-2" hidden><img src="testtaisaku/chuo_2.jpg?v=20261123" alt="松山中央高校 2年生 テスト対策日程。11/23(月・祝) 15:15〜16:45 数学B 大街道、11/28(土) 12:30〜14:00 数学Ⅱ 大街道、11/28(土) 14:20〜15:50 化学 大街道、11/30(月) 15:00〜16:30 論理表現 石井校" width="1100" height="733" loading="lazy"><details class="txt"><summary>日程を文字で見る</summary><table><tr><th>日付</th><th>時間</th><th>科目</th><th>教室</th></tr><tr data-end="2026-11-23T16:45:00+09:00"><td class="d">11/23<span>（月・祝）</span></td><td class="tm">15:15〜16:45</td><td class="sj">数学B</td><td class="pl">大街道</td></tr><tr data-end="2026-11-28T14:00:00+09:00"><td class="d">11/28<span>（土）</span></td><td class="tm">12:30〜14:00</td><td class="sj">数学Ⅱ</td><td class="pl">大街道</td></tr><tr data-end="2026-11-28T15:50:00+09:00"><td class="d">11/28<span>（土）</span></td><td class="tm">14:20〜15:50</td><td class="sj">化学</td><td class="pl">大街道</td></tr><tr data-end="2026-11-30T16:30:00+09:00"><td class="d">11/30<span>（月）</span></td><td class="tm">15:00〜16:30</td><td class="sj">論理表現</td><td class="pl">石井校</td></tr></table><p class="done-note">灰色は、終わった日程です。</p></details></div><div class="under"><a class="btn main" href="https://liff.line.me/1654282071-yKj0v7k8/landing?follow=%40354wbuiz&amp;lp=cX2AwV&amp;liff_id=1654282071-yKj0v7k8">この日程で<wbr>参加予約する</a></div></div><div class="notebook" id="sc-nishi" data-s="nishi" data-short="西" hidden><p class="school-name"><b>松山西中等教育学校</b><span>2学期 期末テスト対策</span></p><div class="tabs" role="tablist" aria-label="学年"><button class="tab" role="tab" id="t-nishi-4" aria-controls="p-nishi-4" aria-selected="true" data-grade="4">4年生</button><button class="tab" role="tab" id="t-nishi-5" aria-controls="p-nishi-5" aria-selected="false" data-grade="5">5年生</button></div><div class="panel" role="tabpanel" id="p-nishi-4" aria-labelledby="t-nishi-4"><img src="testtaisaku/nishi_4.jpg?v=20261123" alt="松山西中等教育学校 4年生 テスト対策日程。11/22(日) 12:30〜14:00 数学Ⅱα、11/24(火) 17:00〜18:30 英コミ、11/26(木) 14:00〜15:30 論表、11/28(土) 14:20〜15:50 数学Ⅱβ、11/29(日) 12:30〜14:00 化学基礎、11/30(月) 17:00〜18:30 言語文化" width="1100" height="1204" loading="lazy"><details class="txt"><summary>日程を文字で見る</summary><table><tr><th>日付</th><th>時間</th><th>科目</th></tr><tr data-end="2026-11-22T14:00:00+09:00"><td class="d">11/22<span>（日）</span></td><td class="tm">12:30〜14:00</td><td class="sj">数学Ⅱα</td></tr><tr data-end="2026-11-24T18:30:00+09:00"><td class="d">11/24<span>（火）</span></td><td class="tm">17:00〜18:30</td><td class="sj">英コミ</td></tr><tr data-end="2026-11-26T15:30:00+09:00"><td class="d">11/26<span>（木）</span></td><td class="tm">14:00〜15:30</td><td class="sj">論表</td></tr><tr data-end="2026-11-28T15:50:00+09:00"><td class="d">11/28<span>（土）</span></td><td class="tm">14:20〜15:50</td><td class="sj">数学Ⅱβ</td></tr><tr data-end="2026-11-29T14:00:00+09:00"><td class="d">11/29<span>（日）</span></td><td class="tm">12:30〜14:00</td><td class="sj">化学基礎</td></tr><tr data-end="2026-11-30T18:30:00+09:00"><td class="d">11/30<span>（月）</span></td><td class="tm">17:00〜18:30</td><td class="sj">言語文化</td></tr></table><p class="done-note">灰色は、終わった日程です。</p></details></div><div class="panel" role="tabpanel" id="p-nishi-5" aria-labelledby="t-nishi-5" hidden><img src="testtaisaku/nishi_5.jpg?v=20261123" alt="松山西中等教育学校 5年生 テスト対策日程。11/22(日) 16:10〜17:40 数学Ⅱ、11/26(木) 15:15〜16:45 数学B、11/30(月) 18:45〜20:15 論表" width="1100" height="1204" loading="lazy"><details class="txt"><summary>日程を文字で見る</summary><table><tr><th>日付</th><th>時間</th><th>科目</th></tr><tr data-end="2026-11-22T17:40:00+09:00"><td class="d">11/22<span>（日）</span></td><td class="tm">16:10〜17:40</td><td class="sj">数学Ⅱ</td></tr><tr data-end="2026-11-26T16:45:00+09:00"><td class="d">11/26<span>（木）</span></td><td class="tm">15:15〜16:45</td><td class="sj">数学B</td></tr><tr data-end="2026-11-30T20:15:00+09:00"><td class="d">11/30<span>（月）</span></td><td class="tm">18:45〜20:15</td><td class="sj">論表</td></tr></table><p class="done-note">灰色は、終わった日程です。</p></details></div><div class="under"><a class="btn main" href="https://liff.line.me/1654282071-yKj0v7k8/landing?follow=%40354wbuiz&amp;lp=cX2AwV&amp;liff_id=1654282071-yKj0v7k8">この日程で<wbr>参加予約する</a></div></div><div class="notebook" id="sc-fuzoku" data-s="fuzoku" data-short="附属" hidden><p class="school-name"><b>愛媛大学附属高校</b><span>2学期 期末テスト対策</span></p><div class="tabs" role="tablist" aria-label="学年"><button class="tab" role="tab" id="t-fuzoku-1" aria-controls="p-fuzoku-1" aria-selected="true" data-grade="1">1年生</button><button class="tab" role="tab" id="t-fuzoku-2" aria-controls="p-fuzoku-2" aria-selected="false" data-grade="2">2年生</button></div><div class="panel" role="tabpanel" id="p-fuzoku-1" aria-labelledby="t-fuzoku-1"><img src="testtaisaku/fuzoku_1.jpg?v=20261123" alt="愛媛大学附属高校 1年生 テスト対策日程。11/23(月・祝) 18:45〜20:15 言語文化、11/25(水) 20:30〜22:00 数学Ⅰ、11/26(木) 17:00〜18:30 論理・表現、11/27(金) 14:00〜15:30 化学基礎、11/30(月) 14:00〜15:30 英コミ、11/30(月) 18:45〜20:15 数学A" width="1100" height="1375" loading="lazy"><details class="txt"><summary>日程を文字で見る</summary><table><tr><th>日付</th><th>時間</th><th>科目</th></tr><tr data-end="2026-11-23T20:15:00+09:00"><td class="d">11/23<span>（月・祝）</span></td><td class="tm">18:45〜20:15</td><td class="sj">言語文化</td></tr><tr data-end="2026-11-25T22:00:00+09:00"><td class="d">11/25<span>（水）</span></td><td class="tm">20:30〜22:00</td><td class="sj">数学Ⅰ</td></tr><tr data-end="2026-11-26T18:30:00+09:00"><td class="d">11/26<span>（木）</span></td><td class="tm">17:00〜18:30</td><td class="sj">論理・表現</td></tr><tr data-end="2026-11-27T15:30:00+09:00"><td class="d">11/27<span>（金）</span></td><td class="tm">14:00〜15:30</td><td class="sj">化学基礎</td></tr><tr data-end="2026-11-30T15:30:00+09:00"><td class="d">11/30<span>（月）</span></td><td class="tm">14:00〜15:30</td><td class="sj">英コミ</td></tr><tr data-end="2026-11-30T20:15:00+09:00"><td class="d">11/30<span>（月）</span></td><td class="tm">18:45〜20:15</td><td class="sj">数学A</td></tr></table><p class="done-note">灰色は、終わった日程です。</p></details></div><div class="panel" role="tabpanel" id="p-fuzoku-2" aria-labelledby="t-fuzoku-2" hidden><img src="testtaisaku/fuzoku_2.jpg?v=20261123" alt="愛媛大学附属高校 2年生 テスト対策日程。11/24(火) 18:45〜20:15 古典、11/24(火) 20:30〜22:00 数B、11/25(水) 12:15〜13:45 歴史総合、11/25(水) 14:00〜15:30 化学、11/28(土) 16:10〜17:40 数Ⅱ、11/28(土) 18:00〜19:30 英コミ" width="1100" height="1375" loading="lazy"><details class="txt"><summary>日程を文字で見る</summary><table><tr><th>日付</th><th>時間</th><th>科目</th></tr><tr data-end="2026-11-24T20:15:00+09:00"><td class="d">11/24<span>（火）</span></td><td class="tm">18:45〜20:15</td><td class="sj">古典</td></tr><tr data-end="2026-11-24T22:00:00+09:00"><td class="d">11/24<span>（火）</span></td><td class="tm">20:30〜22:00</td><td class="sj">数B</td></tr><tr data-end="2026-11-25T13:45:00+09:00"><td class="d">11/25<span>（水）</span></td><td class="tm">12:15〜13:45</td><td class="sj">歴史総合</td></tr><tr data-end="2026-11-25T15:30:00+09:00"><td class="d">11/25<span>（水）</span></td><td class="tm">14:00〜15:30</td><td class="sj">化学</td></tr><tr data-end="2026-11-28T17:40:00+09:00"><td class="d">11/28<span>（土）</span></td><td class="tm">16:10〜17:40</td><td class="sj">数Ⅱ</td></tr><tr data-end="2026-11-28T19:30:00+09:00"><td class="d">11/28<span>（土）</span></td><td class="tm">18:00〜19:30</td><td class="sj">英コミ</td></tr></table><p class="done-note">灰色は、終わった日程です。</p></details></div><div class="under"><a class="btn main" href="https://liff.line.me/1654282071-yKj0v7k8/landing?follow=%40354wbuiz&amp;lp=cX2AwV&amp;liff_id=1654282071-yKj0v7k8">この日程で<wbr>参加予約する</a></div></div>
 </div>
 </section>
 

diff --git a/teikitest.html b/teikitest.html
@@ -209,7 +209,7 @@ footer p{margin:0 0 6px}
 <img src="teikitest/kita_1.jpg" alt="北高1年 テスト対策日程。11/20(金)18:45〜 論理表現、11/23(月・祝)17:00-18:30 数学、11/24(火)17:00〜 言語文化、11/25(水)17:00-18:30 化学基礎、11/26(木)15:20-16:50 数学、11/26(木)17:00〜 英語コミュニケーション" width="1122" height="1402">
 </div>
 <div class="panel" role="tabpanel" id="p-kita-2" aria-labelledby="t-kita-2" hidden>
-<img src="teikitest/kita_2.jpg" alt="北高2年 テスト対策日程。11/21(土)14:20-15:50 物理（力学）、11/23(月・祝)17:00〜18:30 古文、11/24(火)15:15-16:45 英語、11/24(火)18:45-20:15 数学（文系・理系合同）、11/27(金)17:00-18:30 化学、11/27(金)18:45-20:15 文系数学、11/27(金)20:30-22:00 理系数学" width="1122" height="1402">
+<img src="teikitest/kita_2.jpg?v=20261123" alt="北高2年 テスト対策日程。11/23(月・祝)17:00〜18:30 古文、11/24(火)18:45〜20:15 数学（文系・理系合同）、11/25(水)15:40〜16:50 物理（力学）、11/26(木)18:45〜20:15 英語、11/27(金)17:00〜18:30 化学、11/27(金)18:45〜20:15 文系数学、11/27(金)20:30〜22:00 理系数学" width="1122" height="1402">
 </div>
 <div class="under"><a class="btn enji" href="https://liff.line.me/1654282071-yKj0v7k8/landing?follow=%40354wbuiz&amp;lp=cX2AwV&amp;liff_id=1654282071-yKj0v7k8">この日程で<wbr>参加予約する</a></div>
 </div>
